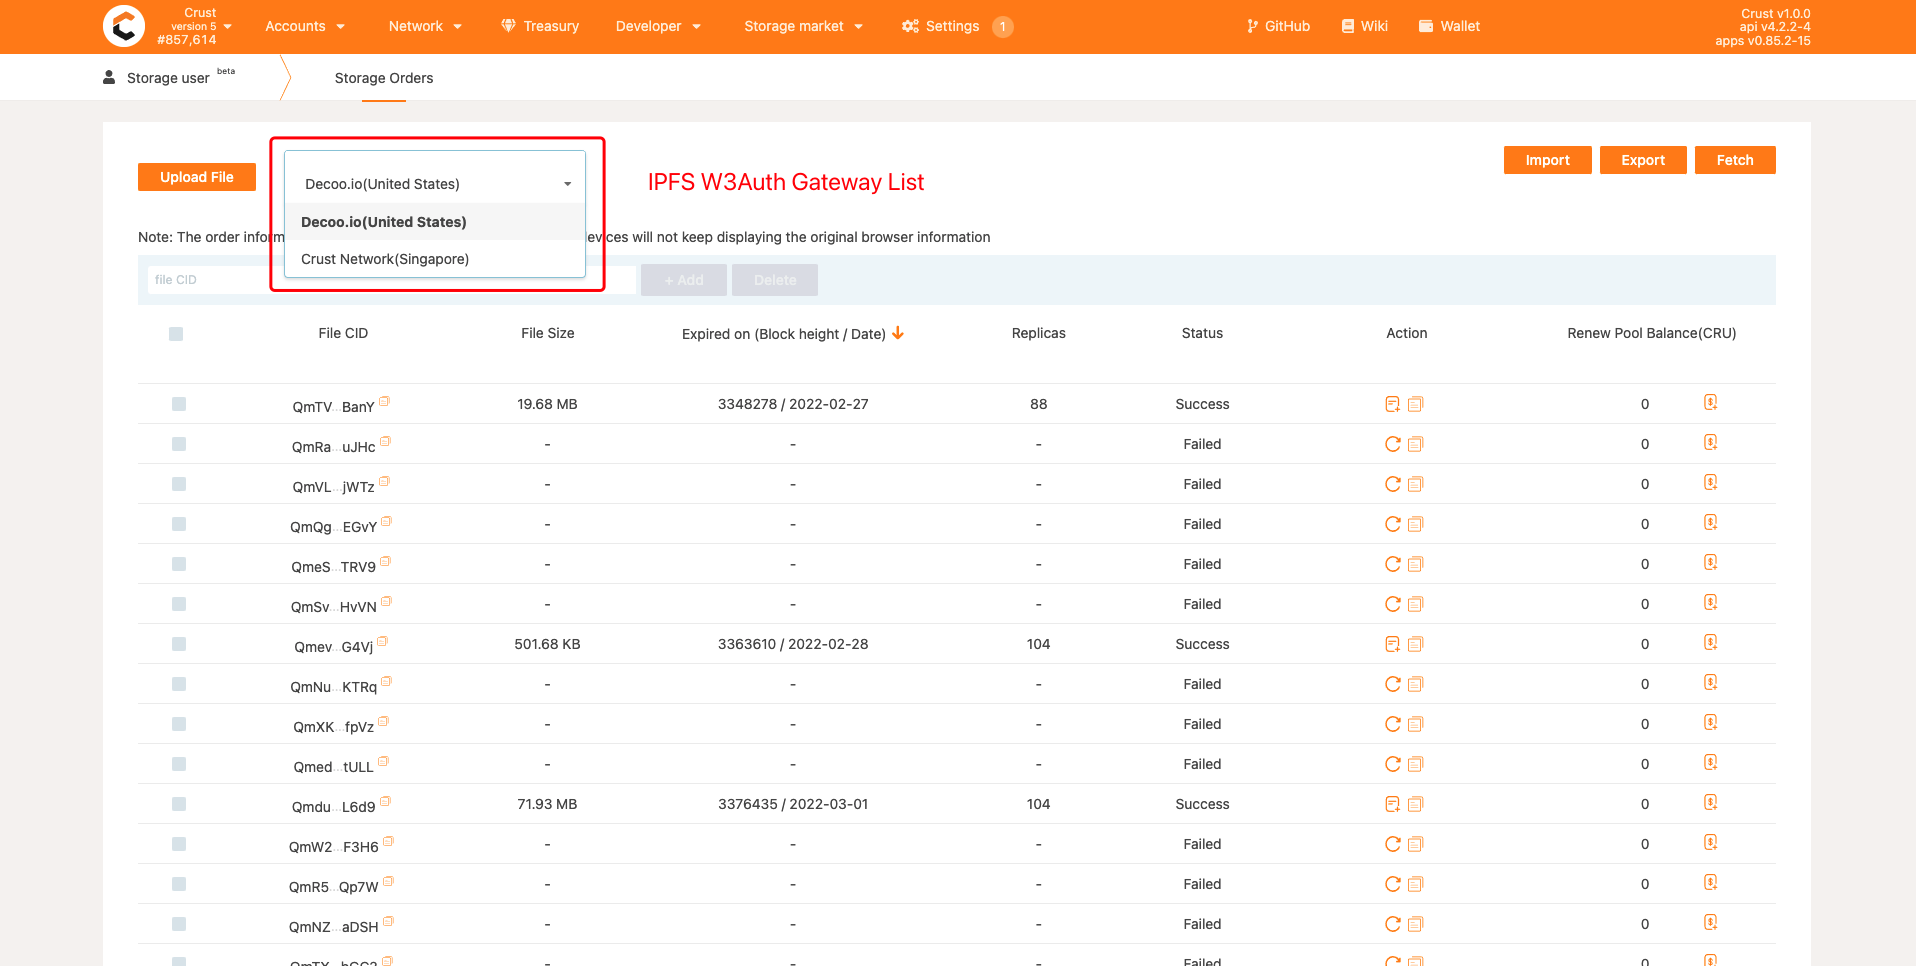
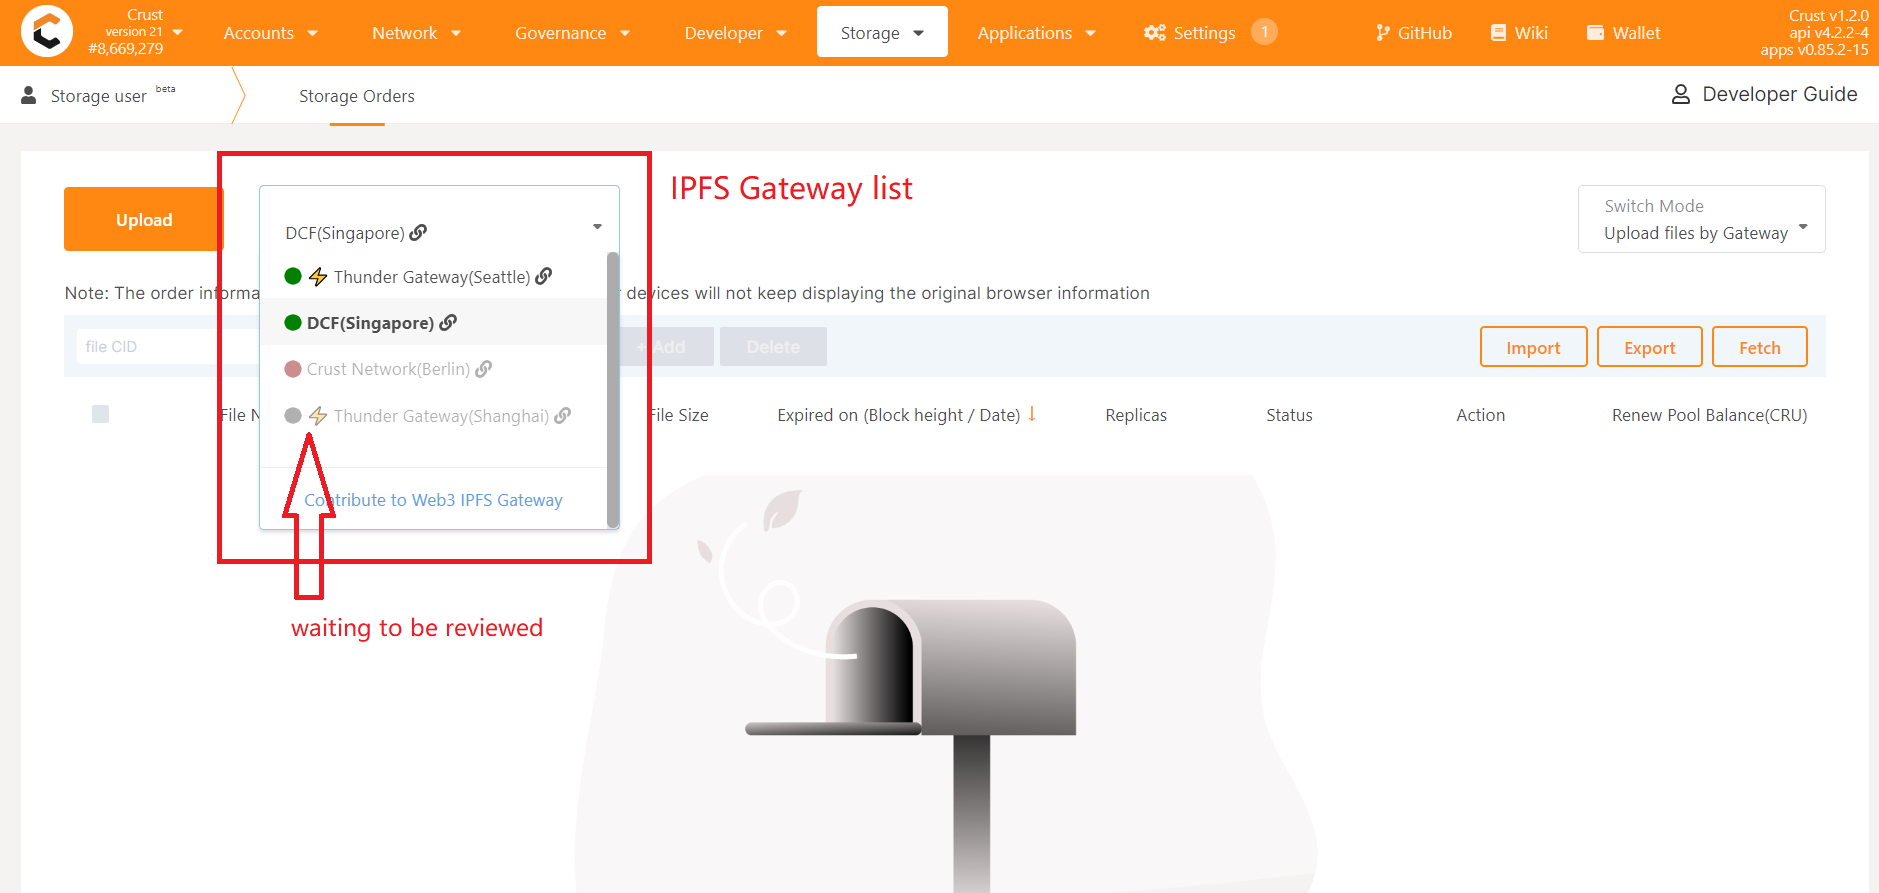
Better ipfs gateway add logic

diff --git a/packages/apps-ipfs/src/market/Order.js b/packages/apps-ipfs/src/market/Order.js
@@ -191,11 +191,35 @@ const Order = ({ routeInfo: { url, params }, watchList: list, doAddOrders }) => 
   const endpoints = useMemo(
     () => createAuthIpfsEndpoints(t).sort(randomSort).map(item => ({
       ...item,
-      label: <LabelHelp help={item.value} />,
-      text: `${item.text}(${item.location})`,
+      label: () => {
+        let help = "Waiting to be launched";
+        let color = '';
+        if (item.status === 'online') {
+          help = "This gateway is online";
+          color = "green"
+        } else if (item.status === 'error') {
+          help = "An error in this gateway, waiting to be fixed";
+          color = "red";
+        }
+        return <div style={{ marginRight: '0.3rem', display: 'inline-block'}}><LabelHelp color={color} help={help} icon="circle" /></div>
+      },
+      text: <div style={{ display: 'inline-block' }}>
+        <div style={{ display: 'inline-block' }}>{item.text}({item.location})</div>
+        <LabelHelp style={{ marginLeft: '0.25rem', marginTop: '2px' }} help={item.value} icon="link" />
+      </div>,
+      disabled: item.status != 'online'
     })),
     [t]
-  );
+  ).sort((item1, item2) =>{
+    if (item1.status === item2.status) {
+      return 0;
+    } else if(item1.status === "online" || (item1.status === "error" && item2.status != "online")) {
+      return -1;
+    } else {
+      return 1;
+    }
+  });
+
   const [currentEndpoint, setCurrentEndpoint] = useState(endpoints[0]);
   // const gateway = isGatewayMode ? currentEndpoint.value : 'https://ipfs.io';
   const timestamp = new Date().getTime()

diff --git a/packages/apps-config/src/ipfs-gateway-endpoints/index.ts b/packages/apps-config/src/ipfs-gateway-endpoints/index.ts
@@ -9,6 +9,7 @@ import type { AuthIpfsEndpoint } from './types';
 //   text: the IPFS endpoint name
 //   value: the IPFS endpoint domain
 //   location: IPFS gateway location
+//   status: IPFS gateway status: online, error, inactivated(incluede null and all other strings)
 export function createAuthIpfsEndpoints (t: TFunction): AuthIpfsEndpoint[] {
   return [
     // for Beta
@@ -21,17 +22,20 @@ export function createAuthIpfsEndpoints (t: TFunction): AuthIpfsEndpoint[] {
     {
       location: t('Singapore'),
       text: t('DCF'),
-      value: 'https://crustipfs.xyz'
+      value: 'https://crustipfs.xyz',
+      status: 'online'
     },
     {
       location: t('Seattle'),
       text: t('⚡ Thunder Gateway'),
-      value: 'https://gw.crustfiles.app'
+      value: 'https://gw.crustfiles.app',
+      status: 'online'
     },
     {
       location: t('Berlin'),
       text: t('Crust Network'),
-      value: 'https://ipfs-gw.decloud.foundation'
+      value: 'https://ipfs-gw.decloud.foundation',
+      status: 'error'
     },
     {
       location: t('Shanghai'),

diff --git a/packages/react-components/src/LabelHelp.tsx b/packages/react-components/src/LabelHelp.tsx
@@ -13,11 +13,12 @@ interface Props {
   help: React.ReactNode;
   icon?: IconName;
   className?: string;
+  color?: string;
 }
 
 let id = 0;
 
-function LabelHelp ({ className = '', help, icon = 'question-circle' }: Props): React.ReactElement<Props> {
+function LabelHelp ({ className = '', color = '', help, icon = 'question-circle' }: Props): React.ReactElement<Props> {
   const [trigger] = useState(() => `label-help-${++id}`);
 
   return (
@@ -25,6 +26,7 @@ function LabelHelp ({ className = '', help, icon = 'question-circle' }: Props): 
       <Icon
         icon={icon}
         tooltip={trigger}
+        color={color}
       />
       <Tooltip
         text={help}

diff --git a/packages/page-files/src/useAuth.ts b/packages/page-files/src/useAuth.ts
@@ -20,6 +20,7 @@ export function useAuthGateway (): AuthGateway {
   const { t } = useTranslation();
   const endpoints = useMemo(
     () => createAuthIpfsEndpoints(t)
+      .filter(item => item.status === "online")
       .sort(() => Math.random() > 0.5 ? -1 : 1)
       .map((item) => ({ ...item, text: `${item.text ?? ''}(${item.location ?? ''})` })),
     [t]

diff --git a/packages/apps-config/src/ipfs-gateway-endpoints/types.ts b/packages/apps-config/src/ipfs-gateway-endpoints/types.ts
@@ -5,4 +5,5 @@ export interface AuthIpfsEndpoint {
   text?: string;
   value: string;
   location?: string;
+  status?: string; // online, error, inactivated(incluede null and all other strings)
 }

diff --git a/packages/apps-config/src/ipfs-gateway-endpoints/README.md b/packages/apps-config/src/ipfs-gateway-endpoints/README.md
@@ -8,6 +8,9 @@ Here you can contribute your IPFS W3Auth gateway to Crust Apps, it will show lik
 
 ![gw list](./docs/images/gw-list.png)
 
+Among them, the green icon indicates that it is running, and the red icon indicates that the gateway has errors waiting to be fixed. A gray icon means pending review.
+
+
 ## Contribution Step
 
 ### 1. Run IPFS Public Gateway
@@ -27,11 +30,18 @@ Please fork this repo, and add your gateway to `index.ts` with the following for
 {
     value: 'https://crustipfs.xyz',
     text: t('Crust Network'),
-    location: t('Singapore')
+    location: t('Singapore'),
 }
 // value:    your gateway url
 // text:     your organization name
-// location: where is your gateway?
+// location: where is your gateway
 ```
 
-Then, after your PR merged, you'll see your gateway on [Crust Apps](https://apps.crust.network/)
+Then, after your PR merged, you'll see your gateway on [Crust Apps](https://apps.crust.network/) with gray icon
+
+### 4. Waiting to be reviewed
+
+Please wait patiently for the technical team to review, after the review is passed, your Gateway will be online. Gray icons also turn green. 
+
+Now congratulations, you have made a great contribution to the Crust
+
